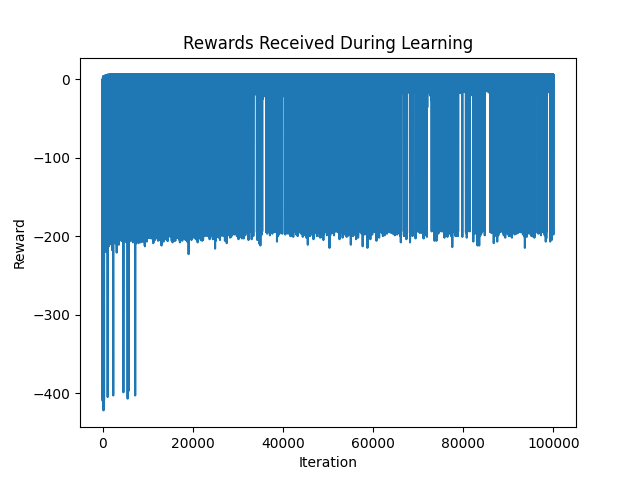
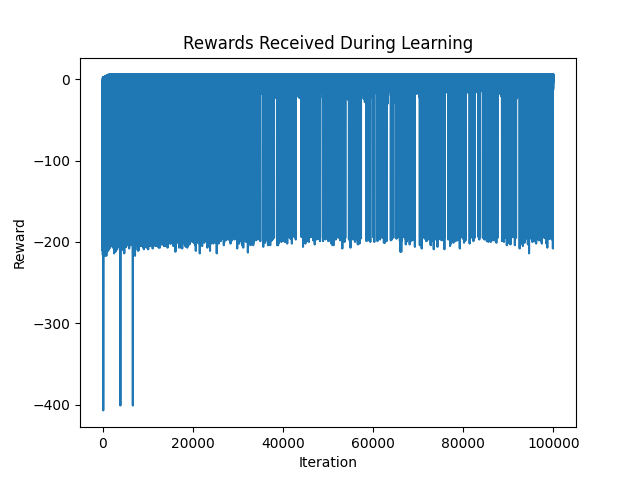
exploitation

diff --git a/driver.py b/driver.py
@@ -34,25 +34,24 @@ def exploration(model : MDP, lr : float, meta : tuple, epoch : int):
     viz_r.plot_rewards()
     return ql.Q
 
-# Zach's visualization
-def visualize_1(model : MDP, Q, rl : int):
-    bus_location = 0
-    ped_y = np.random.randint(1, rl)
-    ped_x = np.random.randint(0, 3)
 
-    cur_state = model.State((bus_location, ped_y, 1 if ped_x == 1 else 0))
-    # cur_state = model.State((0, 4, 0))
+def exploitation(model : MDP, Q, rl : int, epoch : int):
+    viz_r = RewardViz(epoch, "Rewards during exploitation")
 
-    while cur_state._bs != (rl - 1): 
-        a = np.argmax(Q[cur_state.get_idx(rl)][:])
-        print(cur_state._bs, cur_state._ps, cur_state._os, a)
+    for _ in tqdm(np.arange(epoch)):
+        model.S.reset()
+        total_r = 0
 
-        bs, ps, os = model.T.update(cur_state, a)
-        cur_state = model.State((bs, ps, os))
+        while model.S._bs != (rl - 1): 
+            a = np.argmax(Q[model.S.get_idx()][:])
+            r = model.R.reward(model.S, a)
+            total_r += r
+            bsp, psp, osp = model.T.update(model.S, a)
+            model.S.set_tup((bsp, psp, osp))
 
+        viz_r.update(total_r)
 
-    # end state
-    print(cur_state._bs, cur_state._ps, cur_state._os)
+    viz_r.plot_rewards()
 
 # Matt's visualization
 def viz(model, Q):
@@ -112,8 +111,8 @@ def main():
     file = input("Save Q to file [.npy]: ")
     np.save(file, Q)
 
-    # visualize_1(model, Q, 15)
-    viz(model, Q)
+    exploitation(model, Q, 15, epoch)
+    # viz(model, Q)
 
 
 if __name__ == "__main__":
